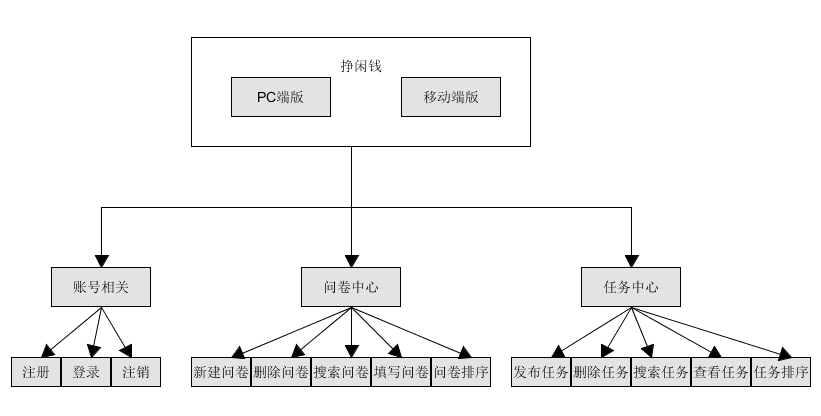
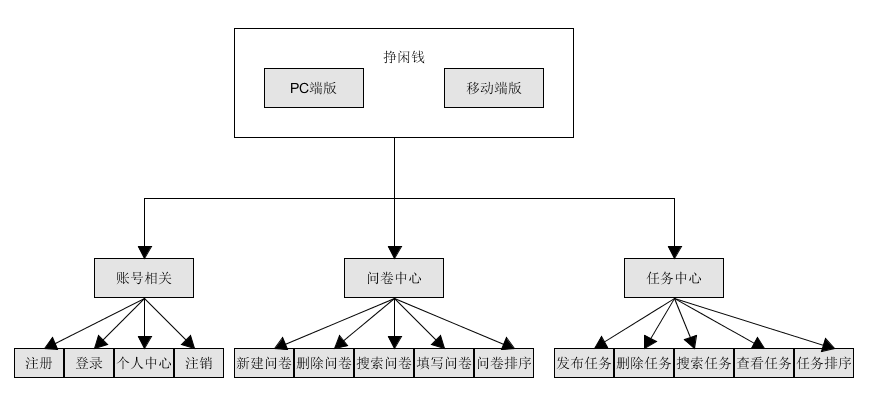
PC UI

diff --git a/SD.md b/SD.md
@@ -14,8 +14,56 @@ v1.3|2019.6.27|完成Server端的技术选型及理由、架构设计|朱俊凯
 
 ### PC端挣闲钱UI设计
 
+#### 账号相关
+- 注册
 
+    ![](pics/UI/UI_PC_register.png)
+- 登录
+
+    ![](pics/UI/UI_PC_login.png)
+- 个人中心
+
+    ![](pics/UI/UI_PC_personalDetail.png)
+
+#### 问卷中心
+- 问卷中心
+
+    ![](pics/UI/UI_PC_questionnaire1.png)
+- 填写问卷
+
+    ![](pics/UI/UI_PC_questionnaire2.png)
+- 创建新的问卷
+
+    ![](pics/UI/UI_PC_questionnaire3.png)
+- 管理问卷
+
+    ![](pics/UI/UI_PC_questionnaire4.png)
+- 删除问卷
+
+    ![](pics/UI/UI_PC_questionnaire5.png)
+
+#### 任务中心
+- 任务中心
+
+    ![](pics/UI/UI_PC_task1.png)
+- 查看任务
+
+    ![](pics/UI/UI_PC_task2.png)
+- 发布新的任务
+
+    ![](pics/UI/UI_PC_task3.png)
+- 删除任务
+
+    ![](pics/UI/UI_PC_task4.png)
+
+---
 ### 移动端挣闲钱UI设计
+
+#### 账号相关
+
+#### 问卷中心
+
+#### 任务中心
 
 
 ---
